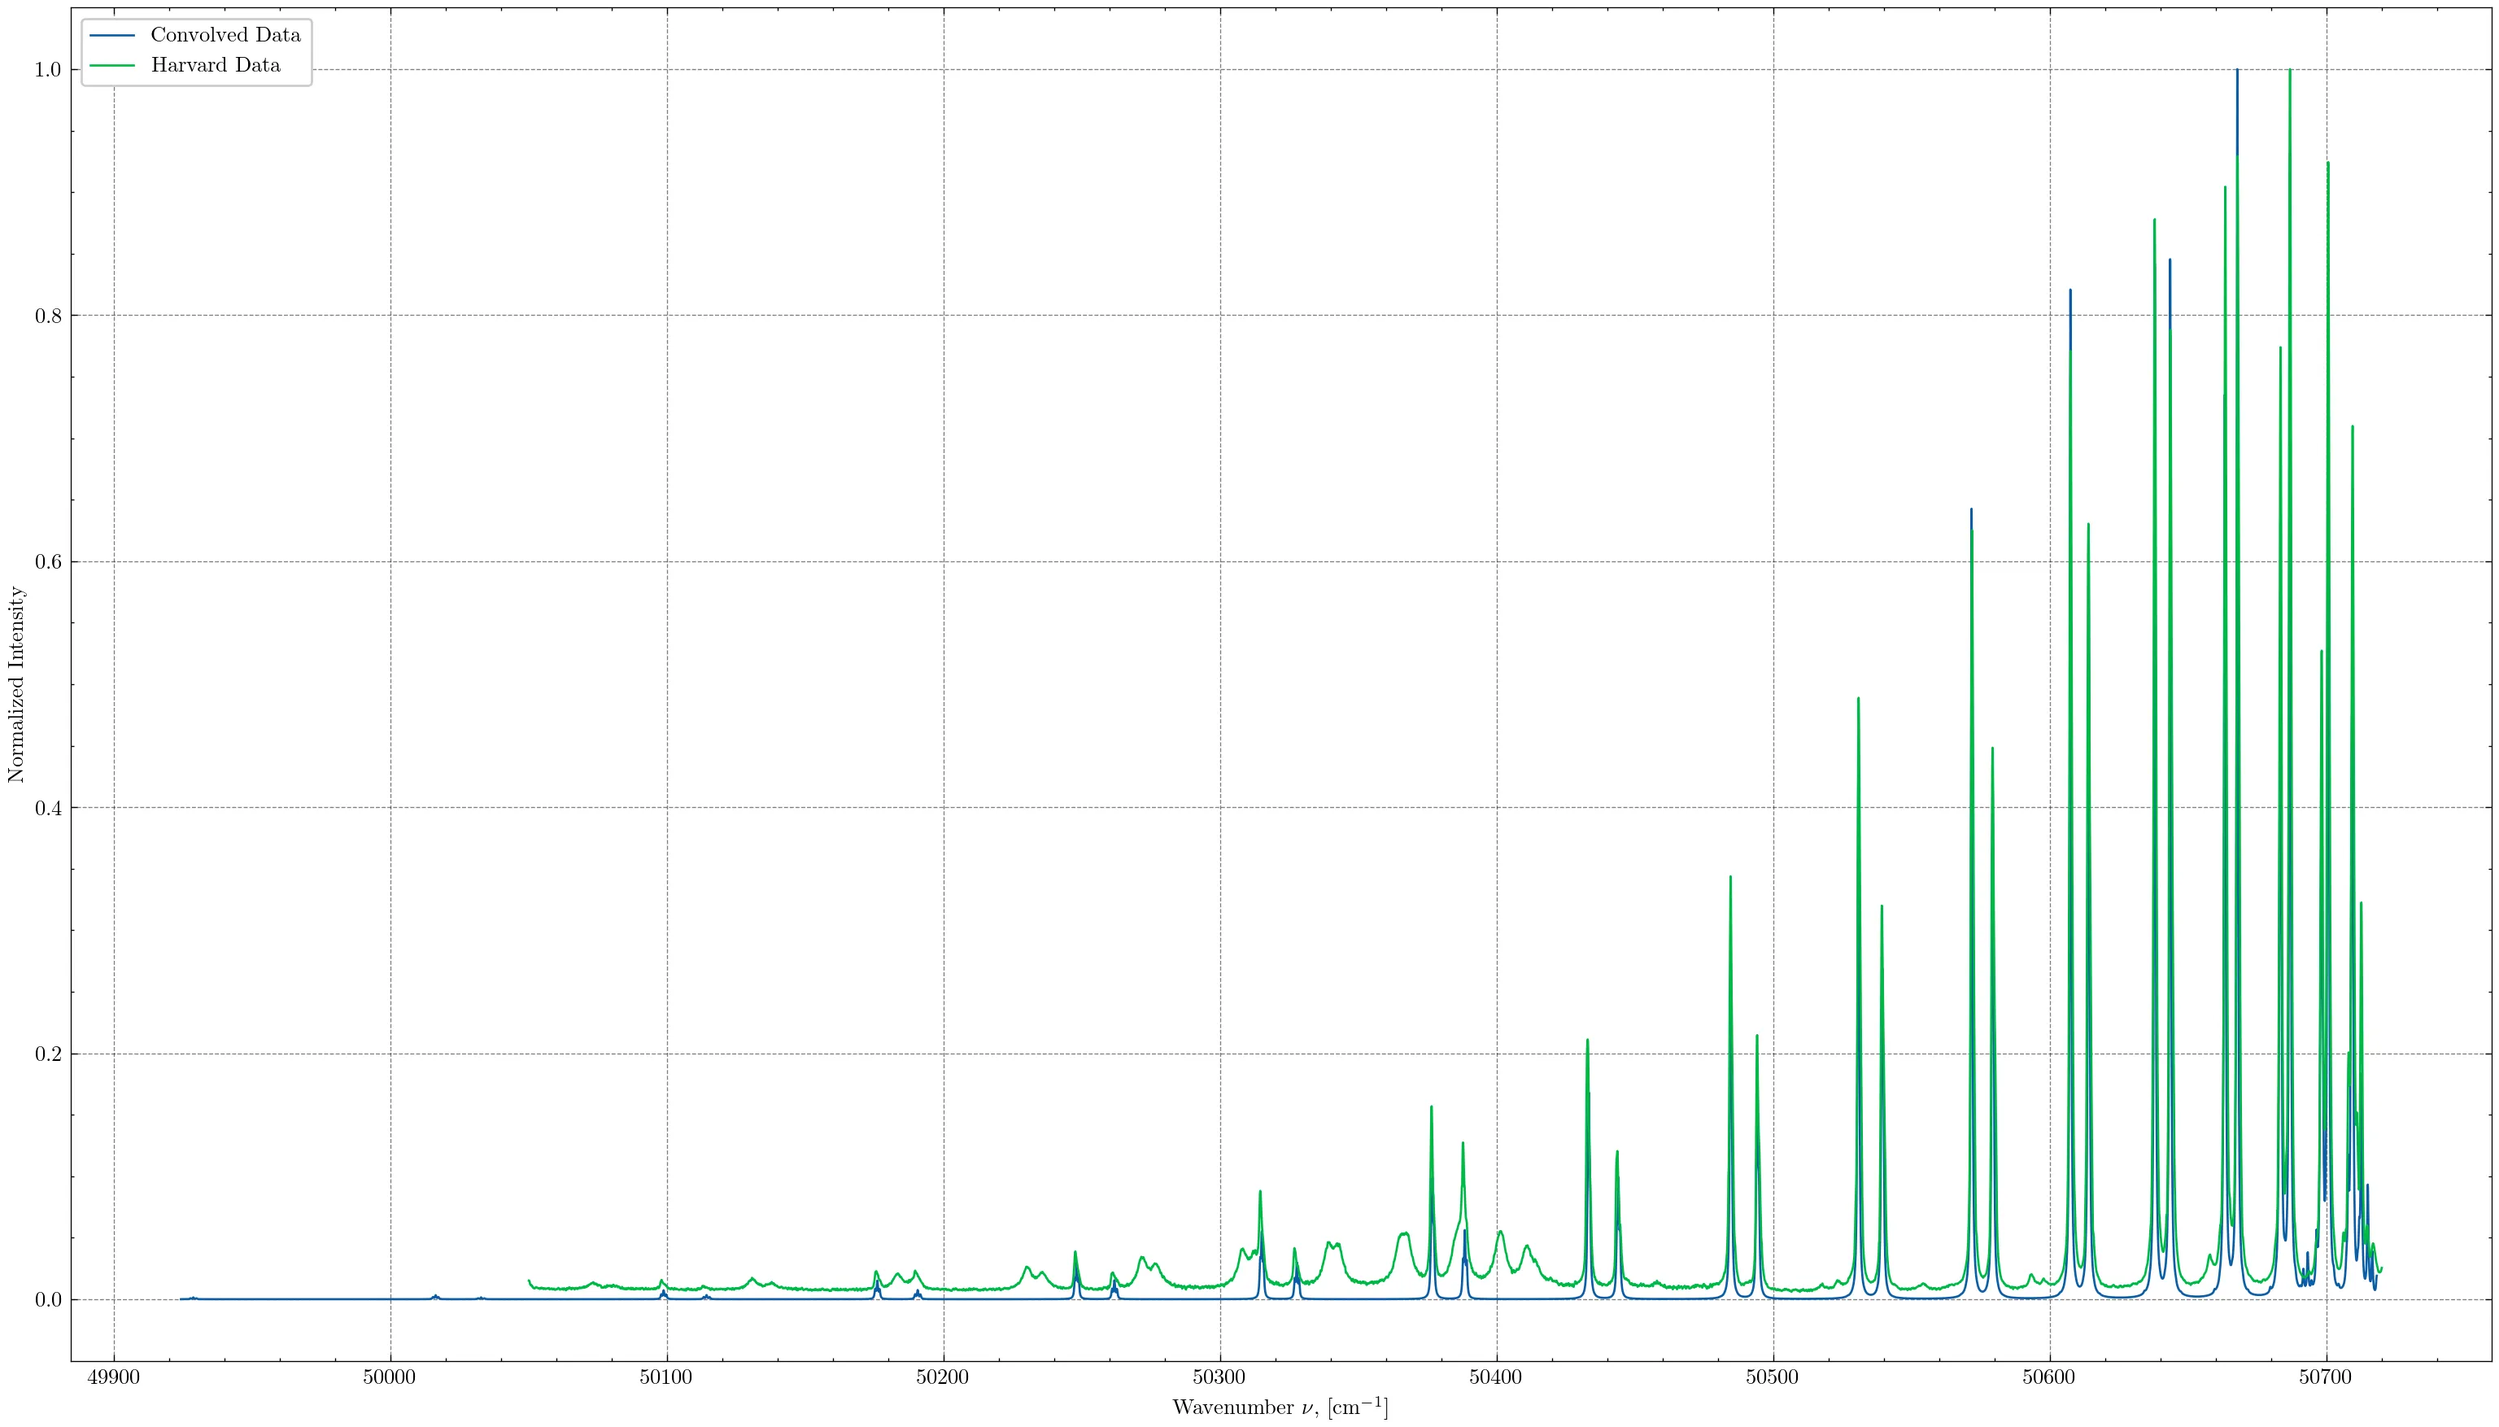
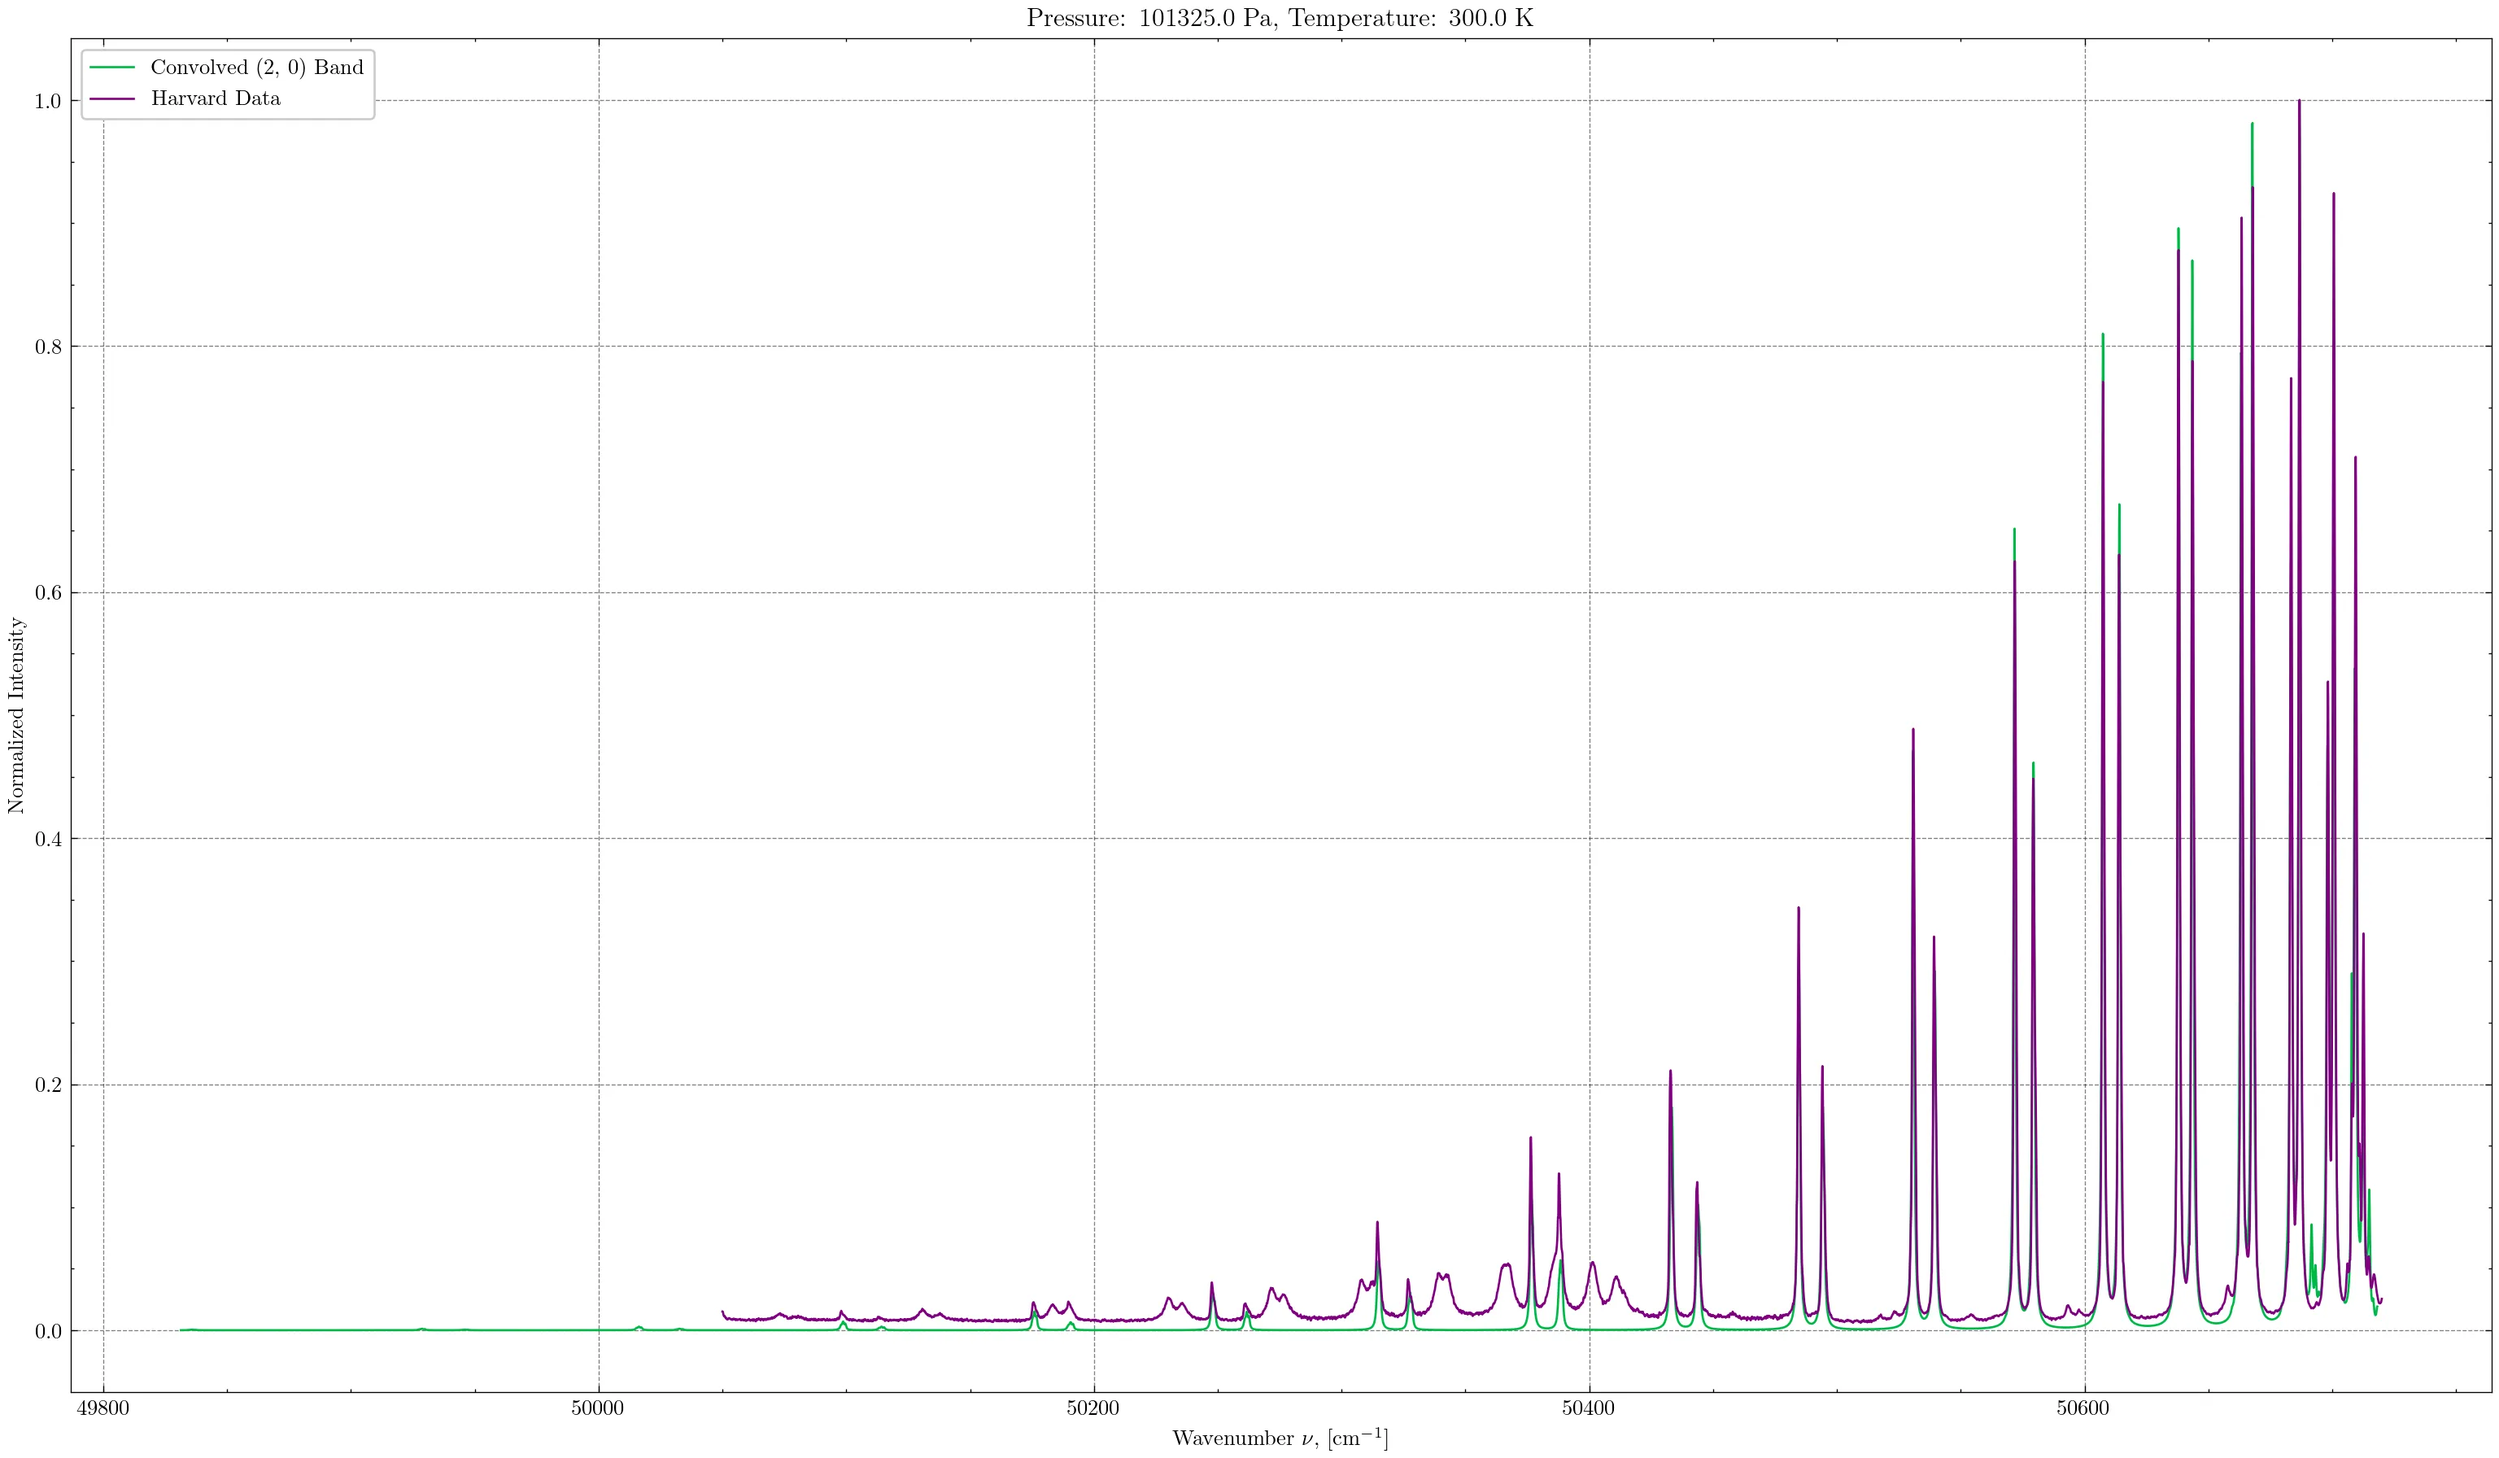
small readme update

diff --git a/src/input.py b/src/input.py
@@ -17,7 +17,7 @@ PRES: float = 101325.0
 ROT_LVLS: np.ndarray = np.arange(0, 37, 1)
 
 # List of vibrational transitions considered in (v', v'') format
-VIB_BANDS: list[tuple] = [(2, 0), (3, 0)]
+VIB_BANDS: list[tuple] = [(2, 0)]
 
 # Band origin override
 # Constants don't line up exactly for comparison with Cosby (0, 9) data, so the band origin can be
@@ -25,7 +25,7 @@ VIB_BANDS: list[tuple] = [(2, 0), (3, 0)]
 BAND_ORIG: tuple[bool, int] = (False, 36185)
 
 # Line data
-LINE_DATA: bool = True
+LINE_DATA: bool = False
 
 # Convolved data
 CONV_DATA: bool = True
@@ -33,16 +33,18 @@ CONV_DATA: bool = True
 CONV_GRAN: int  = 10000
 
 # Sample data
-SAMP_DATA: bool = False
-SAMP_FILE: list[str] = ['cosby09']
+SAMP_DATA: bool = True
+SAMP_FILE: list[str] = ['harvard']
 SAMP_COLS: list[str] = ['purple']
-SAMP_LABL: list[str] = ['Cosby Data']
+SAMP_LABL: list[str] = ['Harvard Data']
 
 # General plotting
-PLOT_SAVE:  bool  = False
+PLOT_SAVE:  bool  = True
 PLOT_PATH:  str   = '../img/example.webp'
 DPI:        int   = 96
 SCREEN_RES: tuple = (1920, 1080)
 
 # Custom plot limits
 SET_LIMS: tuple[bool, tuple] = (False, (36170, 36192))
+# Custom font size
+FONT_SIZE: tuple[bool, int] = (False, 20)

diff --git a/src/output.py b/src/output.py
@@ -18,7 +18,8 @@ def plot_style() -> None:
     plt.style.use(['science', 'grid'])
     plt.figure(figsize=(inp.SCREEN_RES[0]/inp.DPI, inp.SCREEN_RES[1]/inp.DPI), dpi=inp.DPI)
 
-    plt.rcParams.update({'font.size': 20})
+    if inp.FONT_SIZE[0]:
+        plt.rcParams.update({'font.size': inp.FONT_SIZE[1]})
 
 def show_plot():
     '''

diff --git a/README.md b/README.md
@@ -1,6 +1,6 @@
 # spectra
 
-> *Last Updated: 16 August 2023*
+> *Last Updated: 28 August 2023*
 
 A simulation of the Schumann-Runge bands of molecular oxygen written in Python.
 
